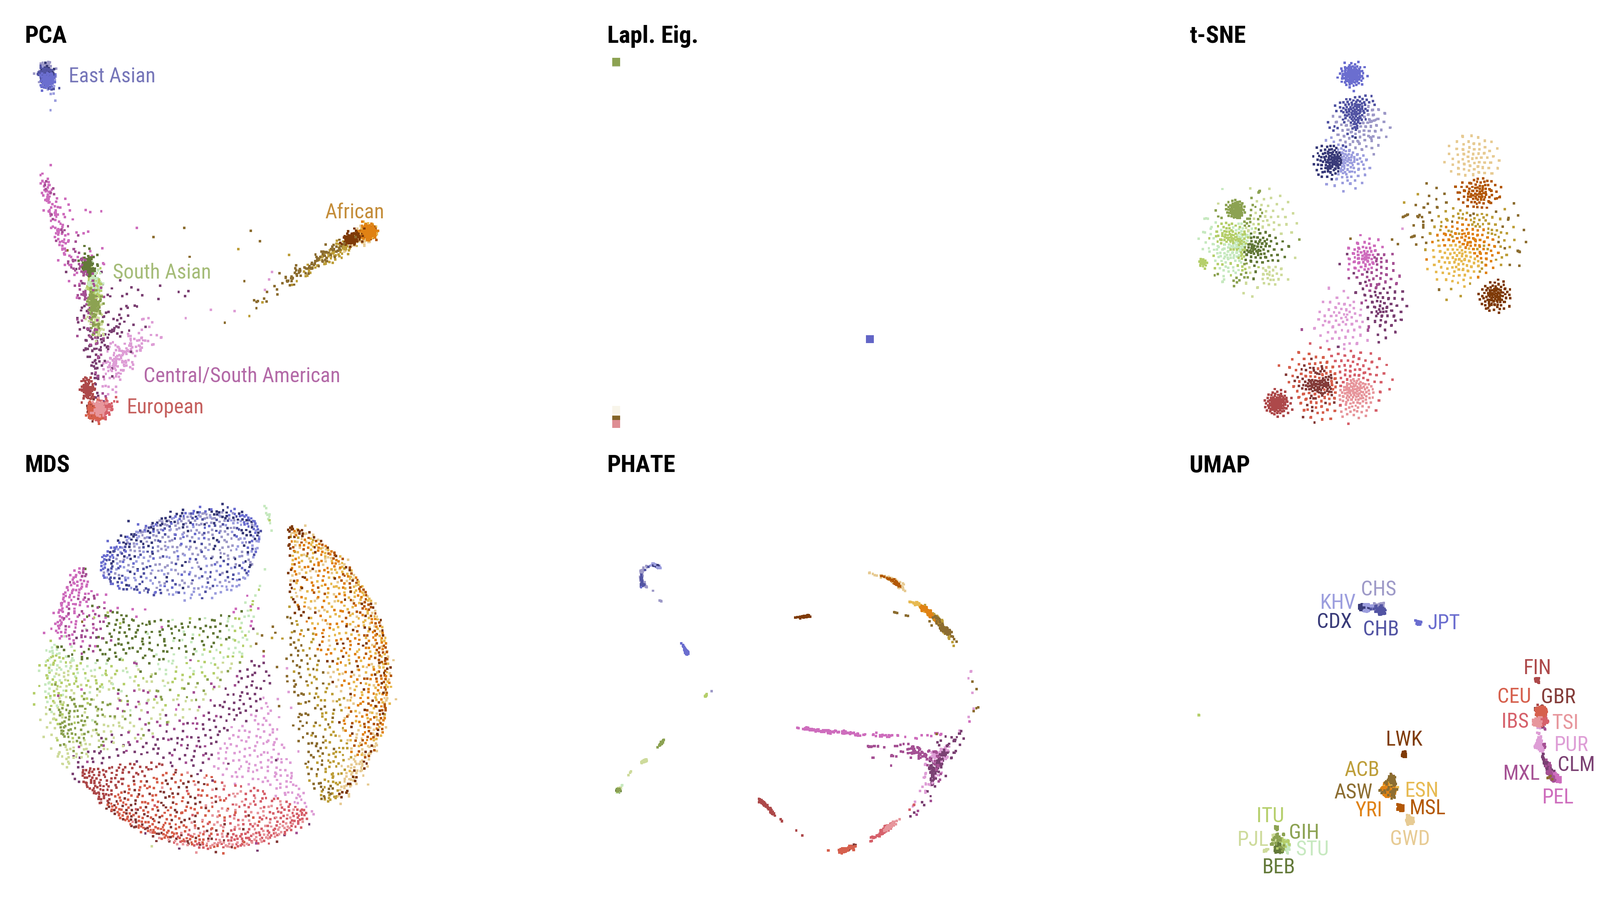
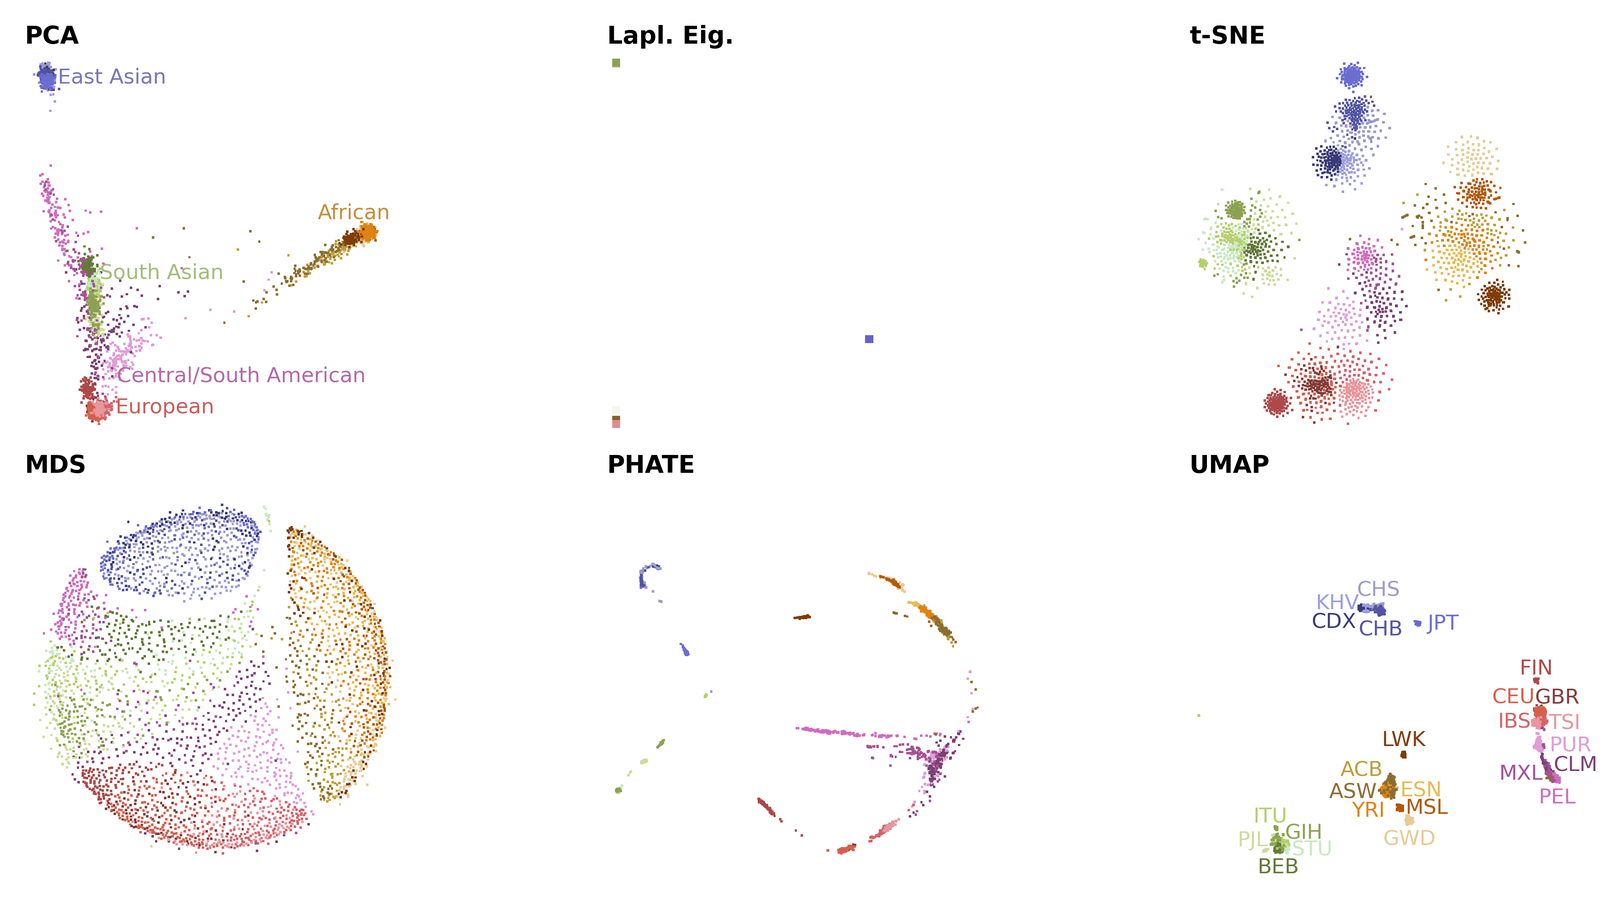
plot hps

diff --git a/code/utils/plot_fcts.py b/code/utils/plot_fcts.py
@@ -9,7 +9,7 @@
 ########################################################################################################
 ########################################################################################################
 
-import numpy as np, matplotlib.pyplot as plt, os, paths, copy
+import numpy as np, matplotlib.pyplot as plt, os, paths, copy, params
 from matplotlib.gridspec import GridSpec
 from matplotlib import style 
 
@@ -678,3 +678,194 @@ def create_2x3_figure(data_name, emb_path, fig_path, arr_colors, f_format='png',
     
     save_show_fig(fname=fig_path, f_format=f_format)
     plt.close()
+
+def create_2x3_figures_hps(data_name, emb_path, fig_path, arr_colors, f_format='png', X_PCs=None, D_viz_emb=None):
+    """
+    Create figures with 2 x 3 subplots, depicting the results of 6 embedding methods applied on a data set for different hyper-parameter values. 
+    The embedding methods that are considered are PCA, MDS, Laplacian eigenmaps, PHATE, t-SNE and UMAP. 
+    It is assumed that 2-D embeddings of the data were previously computed and saved.
+    In:
+    - data_name: name of the currently considered data set in prints, as specified in the paths.py file. 
+    - emb_path: path where the embeddings of the data are stored. 
+    - fig_path: path where to save the figure. 
+    - arr_colors: an array or list with one entry per example, specifying the color to use to plot it in 2-D. 
+    - f_format: format of the figure to be saved. 
+    - X_PCs: a 2-D numpy array with one example per row and two columns, the first (resp. second) one storing the first (resp. second) principal component of the data set. Can be None except if Tasic et al or Kanton et al data are considered; in this case, X_PCs will be deepcopied and hence not modified. 
+    - D_viz_emb: same as in viz_2d_emb.
+    Out: figures are produced and saved. 
+    """
+    print('===')
+    print("=== Creating 2x3 figures for {v} data with different hyper-parameters".format(v=data_name))
+    print("===")
+    
+    # Results for multiple hyper-parameter values are stored in subfolders
+    res_path_emb_hps = "{v}hps/".format(v=emb_path)
+    
+    # Total number of hyper-parameter values to consider
+    n_tot_nnp = len(params.L_nn_perp)
+    
+    # Looping over hyper-parameter values
+    for i_nnp, nnp in enumerate(params.L_nn_perp):
+        print('**')
+        print("** Considered number of neighbors or perplexity value: {v} (#{i_nnp}/{n_tot_nnp})".format(v=nnp, i_nnp=i_nnp+1, n_tot_nnp=n_tot_nnp))
+        print("**")
+        
+        cur_LE_name = '{v} ({n} neighbors)'.format(n=nnp, v=paths.LE_name_no_param)
+        cur_LE_path = '{v}-n{n}'.format(n=nnp, v=paths.LE_path_no_param)
+        
+        cur_tsne_name = '{v} (perplexity: {p})'.format(p=nnp, v=paths.tsne_name_no_param)
+        cur_tsne_path = '{v}-p{p}'.format(v=paths.tsne_path_no_param, p=int(round(nnp)))
+        
+        cur_umap_name = '{v} ({n} neighbors)'.format(n=nnp, v=paths.umap_name_no_param)
+        cur_umap_path = '{v}-n{n}'.format(n=nnp, v=paths.umap_path_no_param)
+        
+        cur_phate_name = '{v} ({n} neighbors)'.format(n=nnp, v=paths.phate_name_no_param)
+        cur_phate_path = '{v}-n{n}'.format(n=nnp, v=paths.phate_path_no_param)
+        
+        fig = plt.figure(figsize=(7, 3.5))
+        gs = GridSpec(nrows=2, ncols=3, wspace=0.0, figure=fig)
+        
+        ##############################
+        ############################## 
+        # PCA
+        ####################
+        
+        if (data_name == paths.tasic_name) or (data_name == paths.kanton_name):
+            X_pca = copy.deepcopy(X_PCs)
+        else:
+            X_pca = np.load('{rp}{npath}.npy'.format(rp=emb_path, npath=paths.pca_path))
+        
+        if data_name == paths.tasic_name:
+            flipx = True
+            flipy = True
+        elif data_name == paths.genomes_name:
+            flipx = False
+            flipy = False
+        elif data_name == paths.kanton_name:
+            flipx = False
+            flipy = False
+        else:
+            flipx = False
+            flipy = False
+        
+        viz_2d_emb(X=X_pca, vcol=arr_colors, tit=paths.pca_name, ax_def=gs[0,0], flipx=flipx, flipy=flipy, genomes=data_name == paths.genomes_name, pca_tasic=data_name == paths.tasic_name, pca_genomes=data_name == paths.genomes_name, D_viz_emb=D_viz_emb)
+        
+        ##############################
+        ############################## 
+        # MDS
+        ####################
+        
+        X_mds = np.load('{rp}{npath}.npy'.format(rp=emb_path, npath=paths.mds_sklearn_path if data_name == paths.genomes_name else paths.mds_path))
+        
+        if data_name == paths.tasic_name:
+            flipx = True
+            flipy = True
+        elif data_name == paths.genomes_name:
+            flipx = False
+            flipy = False
+        elif data_name == paths.kanton_name:
+            flipx = False
+            flipy = False
+        else:
+            flipx = False
+            flipy = False
+        
+        viz_2d_emb(X=X_mds, vcol=arr_colors, tit=paths.mds_name, ax_def=gs[1,0], flipx=flipx, flipy=flipy, genomes=data_name == paths.genomes_name)
+        
+        ##############################
+        ############################## 
+        # Laplacian eigenmaps (LE)
+        ####################
+        
+        X_LE = np.load('{rp}{npath}.npy'.format(rp=res_path_emb_hps, npath=cur_LE_path))
+        
+        if data_name == paths.tasic_name:
+            flipx = False
+            flipy = False
+        elif data_name == paths.genomes_name:
+            flipx = False
+            flipy = False
+        elif data_name == paths.kanton_name:
+            flipx = True
+            flipy = False
+        else:
+            flipx = False
+            flipy = False
+        #tit=paths.LE_name_no_param
+        viz_2d_emb(X=X_LE, vcol=arr_colors, tit="Lapl. Eig.", ax_def=gs[0,1], flipx=flipx, flipy=flipy, genomes=data_name == paths.genomes_name, LE_tasic=False, LE_genomes=False, LE_kanton=False, D_viz_emb=D_viz_emb)
+        
+        ##############################
+        ############################## 
+        # PHATE
+        ####################
+        
+        X_phate = np.load('{rp}{npath}.npy'.format(rp=res_path_emb_hps, npath=cur_phate_path))
+        
+        if data_name == paths.tasic_name:
+            flipx = True
+            flipy = False
+        elif data_name == paths.genomes_name:
+            flipx = True
+            flipy = False
+        elif data_name == paths.kanton_name:
+            flipx = False
+            flipy = False
+        else:
+            flipx = False
+            flipy = False
+        
+        viz_2d_emb(X=X_phate, vcol=arr_colors, tit=paths.phate_name_no_param, ax_def=gs[1,1], flipx=flipx, flipy=flipy, genomes=data_name == paths.genomes_name, phate_kanton=False, D_viz_emb=D_viz_emb)
+        
+        ##############################
+        ############################## 
+        # t-SNE
+        ####################
+        
+        X_tsne = np.load('{rp}{npath}.npy'.format(rp=res_path_emb_hps, npath=cur_tsne_path))
+        
+        if data_name == paths.tasic_name:
+            flipx = True
+            flipy = True
+        elif data_name == paths.genomes_name:
+            flipx = False
+            flipy = False
+        elif data_name == paths.kanton_name:
+            flipx = False
+            flipy = False
+        else:
+            flipx = False
+            flipy = False
+        
+        viz_2d_emb(X=X_tsne, vcol=arr_colors, tit=r't-SNE', ax_def=gs[0,2], flipx=flipx, flipy=flipy, genomes=data_name == paths.genomes_name, tsne_tasic=False, D_viz_emb=D_viz_emb)
+        
+        ##############################
+        ############################## 
+        # UMAP
+        ####################
+        
+        X_umap = np.load('{rp}{npath}.npy'.format(rp=res_path_emb_hps, npath=cur_umap_path))
+        
+        if data_name == paths.tasic_name:
+            flipx = False
+            flipy = True
+        elif data_name == paths.genomes_name:
+            flipx = False
+            flipy = False
+        elif data_name == paths.kanton_name:
+            flipx = True
+            flipy = True
+        else:
+            flipx = False
+            flipy = False
+        
+        viz_2d_emb(X=X_umap, vcol=arr_colors, tit=paths.umap_name_no_param, ax_def=gs[1,2], flipx=flipx, flipy=flipy, genomes=data_name == paths.genomes_name, umap_tasic=False, umap_genomes=False, D_viz_emb=D_viz_emb)
+        
+        ##############################
+        ##############################
+        # Creating figure
+        ####################
+        
+        save_show_fig(fname="{v}_hps/nnp_{n}".format(v=fig_path, n=int(round(nnp))), f_format=f_format)
+        plt.close()
+
+

diff --git a/code/plot_qa_hp.py b/code/plot_qa_hp.py
@@ -123,26 +123,26 @@ def plot_sev_hps(data_name, res_path_qa, genomes, fig_path):
         # LE: 
         L_meths.append('le')
         D_qa['le'] = dict()
-        D_qa['le'][x] = np.asarray([np.load('{rp}hps/{npath}-{k}.npy'.format(rp=res_path_qa, npath='{v}-n{n}'.format(n=nnp, v=paths.LE_path_no_param), k=x)) for nnp in params.L_nn_perp if os.path.exists(np.load('{rp}hps/{npath}-{k}.npy'.format(rp=res_path_qa, npath='{v}-n{n}'.format(n=nnp, v=paths.LE_path_no_param), k=x)))], dtype=np.float64)
-        D_qa['le'][y] = np.asarray([np.load('{rp}hps/{npath}-{k}.npy'.format(rp=res_path_qa, npath='{v}-n{n}'.format(n=nnp, v=paths.LE_path_no_param), k=y)) for nnp in params.L_nn_perp if os.path.exists(np.load('{rp}hps/{npath}-{k}.npy'.format(rp=res_path_qa, npath='{v}-n{n}'.format(n=nnp, v=paths.LE_path_no_param), k=y)))], dtype=np.float64)
+        D_qa['le'][x] = np.asarray([np.load('{rp}hps/{npath}-{k}.npy'.format(rp=res_path_qa, npath='{v}-n{n}'.format(n=nnp, v=paths.LE_path_no_param), k=x)) for nnp in params.L_nn_perp if os.path.exists('{rp}hps/{npath}-{k}.npy'.format(rp=res_path_qa, npath='{v}-n{n}'.format(n=nnp, v=paths.LE_path_no_param), k=x))], dtype=np.float64)
+        D_qa['le'][y] = np.asarray([np.load('{rp}hps/{npath}-{k}.npy'.format(rp=res_path_qa, npath='{v}-n{n}'.format(n=nnp, v=paths.LE_path_no_param), k=y)) for nnp in params.L_nn_perp if os.path.exists('{rp}hps/{npath}-{k}.npy'.format(rp=res_path_qa, npath='{v}-n{n}'.format(n=nnp, v=paths.LE_path_no_param), k=y))], dtype=np.float64)
         
         # t-SNE: 
         L_meths.append('tsne')
         D_qa['tsne'] = dict()
-        D_qa['tsne'][x] = np.asarray([np.load('{rp}hps/{npath}-{k}.npy'.format(rp=res_path_qa, npath='{v}-p{p}'.format(p=int(round(nnp)), v=paths.tsne_path_no_param), k=x)) for nnp in params.L_nn_perp if os.path.exists(np.load('{rp}hps/{npath}-{k}.npy'.format(rp=res_path_qa, npath='{v}-p{p}'.format(p=int(round(nnp)), v=paths.tsne_path_no_param), k=x)))], dtype=np.float64)
-        D_qa['tsne'][y] = np.asarray([np.load('{rp}hps/{npath}-{k}.npy'.format(rp=res_path_qa, npath='{v}-p{p}'.format(p=int(round(nnp)), v=paths.tsne_path_no_param), k=y)) for nnp in params.L_nn_perp if os.path.exists(np.load('{rp}hps/{npath}-{k}.npy'.format(rp=res_path_qa, npath='{v}-p{p}'.format(p=int(round(nnp)), v=paths.tsne_path_no_param), k=y)))], dtype=np.float64)
+        D_qa['tsne'][x] = np.asarray([np.load('{rp}hps/{npath}-{k}.npy'.format(rp=res_path_qa, npath='{v}-p{p}'.format(p=int(round(nnp)), v=paths.tsne_path_no_param), k=x)) for nnp in params.L_nn_perp if os.path.exists('{rp}hps/{npath}-{k}.npy'.format(rp=res_path_qa, npath='{v}-p{p}'.format(p=int(round(nnp)), v=paths.tsne_path_no_param), k=x))], dtype=np.float64)
+        D_qa['tsne'][y] = np.asarray([np.load('{rp}hps/{npath}-{k}.npy'.format(rp=res_path_qa, npath='{v}-p{p}'.format(p=int(round(nnp)), v=paths.tsne_path_no_param), k=y)) for nnp in params.L_nn_perp if os.path.exists('{rp}hps/{npath}-{k}.npy'.format(rp=res_path_qa, npath='{v}-p{p}'.format(p=int(round(nnp)), v=paths.tsne_path_no_param), k=y))], dtype=np.float64)
         
         # UMAP: 
         L_meths.append('umap')
         D_qa['umap'] = dict()
-        D_qa['umap'][x] = np.asarray([np.load('{rp}hps/{npath}-{k}.npy'.format(rp=res_path_qa, npath='{v}-n{n}'.format(n=nnp, v=paths.umap_path_no_param), k=x)) for nnp in params.L_nn_perp if os.path.exists(np.load('{rp}hps/{npath}-{k}.npy'.format(rp=res_path_qa, npath='{v}-n{n}'.format(n=nnp, v=paths.umap_path_no_param), k=x)))], dtype=np.float64)
-        D_qa['umap'][y] = np.asarray([np.load('{rp}hps/{npath}-{k}.npy'.format(rp=res_path_qa, npath='{v}-n{n}'.format(n=nnp, v=paths.umap_path_no_param), k=y)) for nnp in params.L_nn_perp if os.path.exists(np.load('{rp}hps/{npath}-{k}.npy'.format(rp=res_path_qa, npath='{v}-n{n}'.format(n=nnp, v=paths.umap_path_no_param), k=y)))], dtype=np.float64)
+        D_qa['umap'][x] = np.asarray([np.load('{rp}hps/{npath}-{k}.npy'.format(rp=res_path_qa, npath='{v}-n{n}'.format(n=nnp, v=paths.umap_path_no_param), k=x)) for nnp in params.L_nn_perp if os.path.exists('{rp}hps/{npath}-{k}.npy'.format(rp=res_path_qa, npath='{v}-n{n}'.format(n=nnp, v=paths.umap_path_no_param), k=x))], dtype=np.float64)
+        D_qa['umap'][y] = np.asarray([np.load('{rp}hps/{npath}-{k}.npy'.format(rp=res_path_qa, npath='{v}-n{n}'.format(n=nnp, v=paths.umap_path_no_param), k=y)) for nnp in params.L_nn_perp if os.path.exists('{rp}hps/{npath}-{k}.npy'.format(rp=res_path_qa, npath='{v}-n{n}'.format(n=nnp, v=paths.umap_path_no_param), k=y))], dtype=np.float64)
         
         # PHATE: 
         L_meths.append('phate')
         D_qa['phate'] = dict()
-        D_qa['phate'][x] = np.asarray([np.load('{rp}hps/{npath}-{k}.npy'.format(rp=res_path_qa, npath='{v}-n{n}'.format(n=nnp, v=paths.phate_path_no_param), k=x)) for nnp in params.L_nn_perp if os.path.exists(np.load('{rp}hps/{npath}-{k}.npy'.format(rp=res_path_qa, npath='{v}-n{n}'.format(n=nnp, v=paths.phate_path_no_param), k=x)))], dtype=np.float64)
-        D_qa['phate'][y] = np.asarray([np.load('{rp}hps/{npath}-{k}.npy'.format(rp=res_path_qa, npath='{v}-n{n}'.format(n=nnp, v=paths.phate_path_no_param), k=y)) for nnp in params.L_nn_perp if os.path.exists(np.load('{rp}hps/{npath}-{k}.npy'.format(rp=res_path_qa, npath='{v}-n{n}'.format(n=nnp, v=paths.phate_path_no_param), k=y)))], dtype=np.float64)
+        D_qa['phate'][x] = np.asarray([np.load('{rp}hps/{npath}-{k}.npy'.format(rp=res_path_qa, npath='{v}-n{n}'.format(n=nnp, v=paths.phate_path_no_param), k=x)) for nnp in params.L_nn_perp if os.path.exists('{rp}hps/{npath}-{k}.npy'.format(rp=res_path_qa, npath='{v}-n{n}'.format(n=nnp, v=paths.phate_path_no_param), k=x))], dtype=np.float64)
+        D_qa['phate'][y] = np.asarray([np.load('{rp}hps/{npath}-{k}.npy'.format(rp=res_path_qa, npath='{v}-n{n}'.format(n=nnp, v=paths.phate_path_no_param), k=y)) for nnp in params.L_nn_perp if os.path.exists('{rp}hps/{npath}-{k}.npy'.format(rp=res_path_qa, npath='{v}-n{n}'.format(n=nnp, v=paths.phate_path_no_param), k=y))], dtype=np.float64)
         
         plt.figure(figsize=(8,8))
         

diff --git a/code/kanton-figure.py b/code/kanton-figure.py
@@ -4,7 +4,7 @@
 ########################################################################################################
 ########################################################################################################
 
-# Create figure depicting 2x3 embeddings of Kanton et al data.
+# Create figure depicting 2x3 embeddings of Kanton et al data. It is also possible to create figures illustrating the influence of the hyper-parameters of the embedding methods.
 
 # This file contains elements of code written by Sebastian Damrich and made publicly available following this link: https://github.com/berenslab/ne_spectrum_scRNAseq/blob/main/utils/utils.py#L99
 
@@ -15,6 +15,9 @@ import numpy as np, utils.plot_fcts as plot_fcts, paths, params, plot_qa_hp
 
 # Name of this file
 module_name = "kanton-figure.py"
+
+# Set to True to create figures illustrating the influence of the hyper-parameters of the embedding methods
+plot_res_hps = True
 
 ##############################
 ##############################
@@ -68,7 +71,9 @@ for k in D_samp_by_time:
 
 plot_fcts.create_2x3_figure(data_name=paths.kanton_name, emb_path=paths.kanton_emb, fig_path=paths.kanton_fig, arr_colors=labels, f_format=params.f_format, X_PCs=X_PCs, D_viz_emb={'D_samp_by_time':D_samp_by_time_arr})
 
-plot_qa_hp.plot_sev_hps(data_name=paths.kanton_name, res_path_qa=paths.kanton_qa, genomes=False, fig_path=paths.kanton_fig)
+if plot_res_hps:
+    plot_qa_hp.plot_sev_hps(data_name=paths.kanton_name, res_path_qa=paths.kanton_qa, genomes=False, fig_path=paths.kanton_fig)
+    plot_fcts.create_2x3_figures_hps(data_name=paths.kanton_name, emb_path=paths.kanton_emb, fig_path=paths.kanton_fig, arr_colors=labels, f_format=params.f_format, X_PCs=X_PCs, D_viz_emb={'D_samp_by_time':D_samp_by_time_arr})
 
 print('*********************')
 print('***** Done! :-) *****')

diff --git a/code/tasic-figure.py b/code/tasic-figure.py
@@ -4,7 +4,7 @@
 ########################################################################################################
 ########################################################################################################
 
-# Create figure depicting 2x3 embeddings of Tasic et al data.
+# Create figure depicting 2x3 embeddings of Tasic et al data. It is also possible to create figures illustrating the influence of the hyper-parameters of the embedding methods.
 
 ########################################################################################################
 ########################################################################################################
@@ -13,6 +13,9 @@ import numpy as np, utils.plot_fcts as plot_fcts, paths, params, pandas as pd, p
 
 # Name of this file
 module_name = "tasic-figure.py"
+
+# Set to True to create figures illustrating the influence of the hyper-parameters of the embedding methods
+plot_res_hps = True
 
 ##############################
 ############################## 
@@ -38,7 +41,9 @@ D_viz_emb['clusterNames'] = clusterNames
 
 plot_fcts.create_2x3_figure(data_name=paths.tasic_name, emb_path=paths.tasic_emb, fig_path=paths.tasic_fig, arr_colors=colors, f_format=params.f_format, X_PCs=X_PCs, D_viz_emb=D_viz_emb)
 
-plot_qa_hp.plot_sev_hps(data_name=paths.tasic_name, res_path_qa=paths.tasic_qa, genomes=False, fig_path=paths.tasic_fig)
+if plot_res_hps:
+    plot_qa_hp.plot_sev_hps(data_name=paths.tasic_name, res_path_qa=paths.tasic_qa, genomes=False, fig_path=paths.tasic_fig)
+    plot_fcts.create_2x3_figures_hps(data_name=paths.tasic_name, emb_path=paths.tasic_emb, fig_path=paths.tasic_fig, arr_colors=colors, f_format=params.f_format, X_PCs=X_PCs, D_viz_emb=D_viz_emb)
 
 print('*********************')
 print('***** Done! :-) *****')

diff --git a/code/genomes-figure.py b/code/genomes-figure.py
@@ -4,7 +4,7 @@
 ########################################################################################################
 ########################################################################################################
 
-# Create figure depicting 2x3 embeddings of 1000 Genomes Project data.
+# Create figure depicting 2x3 embeddings of 1000 Genomes Project data. It is also possible to create figures illustrating the influence of the hyper-parameters of the embedding methods.
 
 # This file contains elements of code written by Alex Diaz-Papkovich.
 
@@ -15,6 +15,9 @@ import numpy as np, utils.plot_fcts as plot_fcts, paths, params, pandas as pd, p
 
 # Name of this file
 module_name = "genomes-figure.py"
+
+# Set to True to create figures illustrating the influence of the hyper-parameters of the embedding methods
+plot_res_hps = True
 
 ##############################
 ############################## 
@@ -60,7 +63,9 @@ D_viz_emb['D_superpop'] = D_superpop_arr
 
 plot_fcts.create_2x3_figure(data_name=paths.genomes_name, emb_path=paths.genomes_emb, fig_path=paths.genomes_fig, arr_colors=labels, f_format=params.f_format, D_viz_emb=D_viz_emb)
 
-plot_qa_hp.plot_sev_hps(data_name=paths.genomes_name, res_path_qa=paths.genomes_qa, genomes=True, fig_path=paths.genomes_fig)
+if plot_res_hps:
+    plot_qa_hp.plot_sev_hps(data_name=paths.genomes_name, res_path_qa=paths.genomes_qa, genomes=True, fig_path=paths.genomes_fig)
+    plot_fcts.create_2x3_figures_hps(data_name=paths.genomes_name, emb_path=paths.genomes_emb, fig_path=paths.genomes_fig, arr_colors=labels, f_format=params.f_format, D_viz_emb=D_viz_emb)
 
 print('*********************')
 print('***** Done! :-) *****')

diff --git a/code/utils/run_embs.py b/code/utils/run_embs.py
@@ -419,7 +419,7 @@ def compute_embs_quality_sev_hps(X_hd, pca_preproc, data_name, res_path_emb, res
     ###
     ###
     ###
-    # Storing results for multiple hyper-parameters values in subfolders
+    # Storing results for multiple hyper-parameter values in subfolders
     res_path_emb_hps = "{v}hps/".format(v=res_path_emb)
     res_path_qa_hps = "{v}hps/".format(v=res_path_qa)
     

diff --git a/README.md b/README.md
@@ -13,15 +13,15 @@ This repository is structured as follows:
   - `./code/genome-preprocessing-1.sh`: first step in pre-processing 1000 Genomes Project data. See below for more information. 
   - `./code/genome-preprocessing-2.py`: second step in pre-processing 1000 Genomes Project data. See below for more information. 
   - `./code/genomes-compute-embeddings.py`: computes 2-D embeddings of preprocessed 1000 Genomes Project data, and evaluates their quality. Runtimes are also estimated and embeddings are computed using several hyper-parameter values. 
-  - `./code/genomes-figure.py`: produces a figure with 2-D embeddings of preprocessed 1000 Genomes Project data. The embeddings must have been computed using `./code/genomes-compute-embeddings.py` beforehand. 
+  - `./code/genomes-figure.py`: produces a figure with 2-D embeddings of preprocessed 1000 Genomes Project data. The embeddings must have been computed using `./code/genomes-compute-embeddings.py` beforehand. It is also possible to create figures illustrating the influence of the hyper-parameters of the embedding methods.
   - `./code/kanton-compute-embeddings.py`: computes 2-D embeddings of preprocessed Kanton et al. data, and evaluates their quality. Runtimes can also be estimated (in this case, the original Kanton et al data must be downloaded as detailed below and preprocessed by running kanton-preprocess.py) and embeddings are computed using several hyper-parameter values. Embeddings of subsamplings of this data set can also be computed. 
-  - `./code/kanton-figure.py`: produces a figure with 2-D embeddings of preprocessed Kanton et al. data. The embeddings must have been computed using `./code/kanton-compute-embeddings.py` beforehand. 
+  - `./code/kanton-figure.py`: produces a figure with 2-D embeddings of preprocessed Kanton et al. data. The embeddings must have been computed using `./code/kanton-compute-embeddings.py` beforehand. It is also possible to create figures illustrating the influence of the hyper-parameters of the embedding methods.
   - `./code/kanton-preprocess.py`: preprocesses Kanton et al. data. Raw data are downloaded if needed. 
   - `./code/metrics.ipynb`: produces a figure summarizing quality scores of 2-D embeddings of studied datasets. 
   - `./code/params.py`: defines main parameters employed by many scripts in `./code`. 
   - `./code/paths.py`: defines paths of data files and where to save results. 
   - `./code/tasic-compute-embeddings.py`: computes 2-D embeddings of preprocessed Tasic et al. data, and evaluates their quality. Runtimes can also be estimated (in this case, the original Tasic et al data must be downloaded as detailed below and preprocessed by running tasic-preprocess.py) and embeddings are computed using several hyper-parameter values. Embeddings of subsamplings of this data set can also be computed. 
-  - `./code/tasic-figure.py`: produces a figure with 2-D embeddings of preprocessed Tasic et al. data. The embeddings must have been computed using `./code/tasic-compute-embeddings.py` beforehand. 
+  - `./code/tasic-figure.py`: produces a figure with 2-D embeddings of preprocessed Tasic et al. data. The embeddings must have been computed using `./code/tasic-compute-embeddings.py` beforehand. It is also possible to create figures illustrating the influence of the hyper-parameters of the embedding methods.
   - `./code/tasic-preprocess.py`: preprocesses Tasic et al. data. Raw data must have been downloaded beforehand. 
   - `./code/turtles.ipynb`: applies PCA on the turtles dataset from [(Jolicoeur and Mosimann, Growth 1960)](https://www.researchgate.net/profile/Alessandro-Giuliani-2/post/How-to-create-an-index-using-principal-component-analysis-PCA/attachment/61c86da9d248c650edbba126/AS%3A1105257056743426%401640525225582/download/sizeshapeold.pdf). The first two principal components are displayed. 
   - `./code/wikipedia-compute-embeddings.py`: computes 2-D embeddings of [Simple English Wikipedia data](https://huggingface.co/datasets/Cohere/wikipedia-22-12-simple-embeddings), and evaluates their quality. Data are downloaded if needed. Runtimes of the embedding methods are also estimated. Embeddings of subsamplings of this data set can also be computed. 
